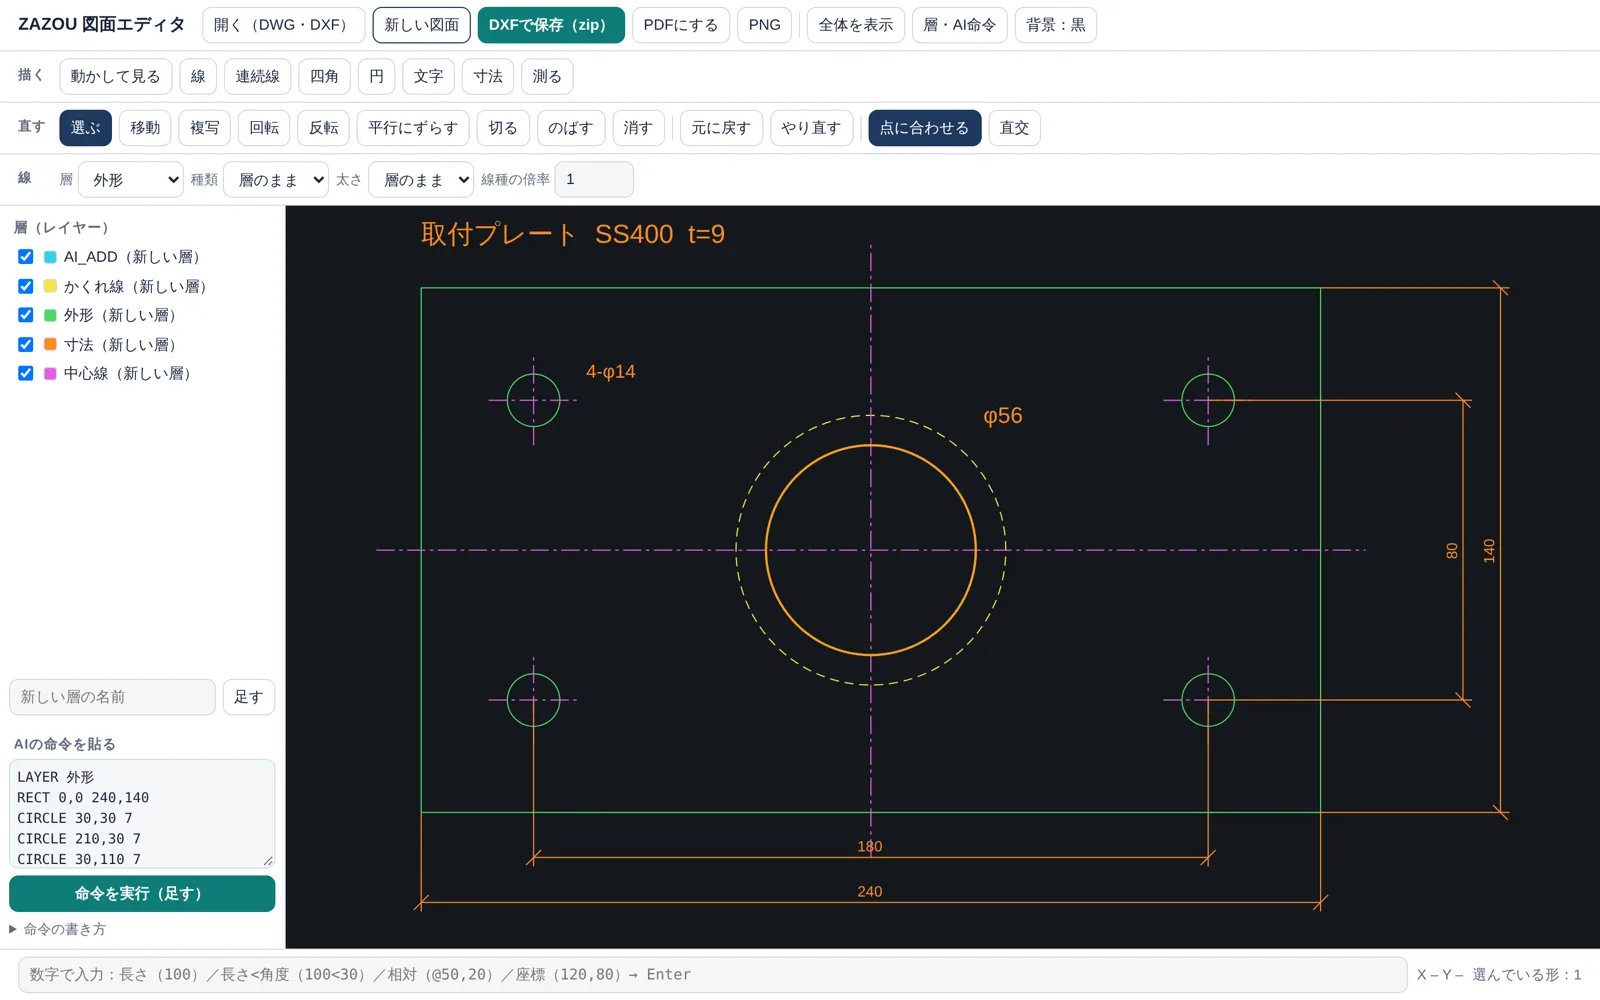
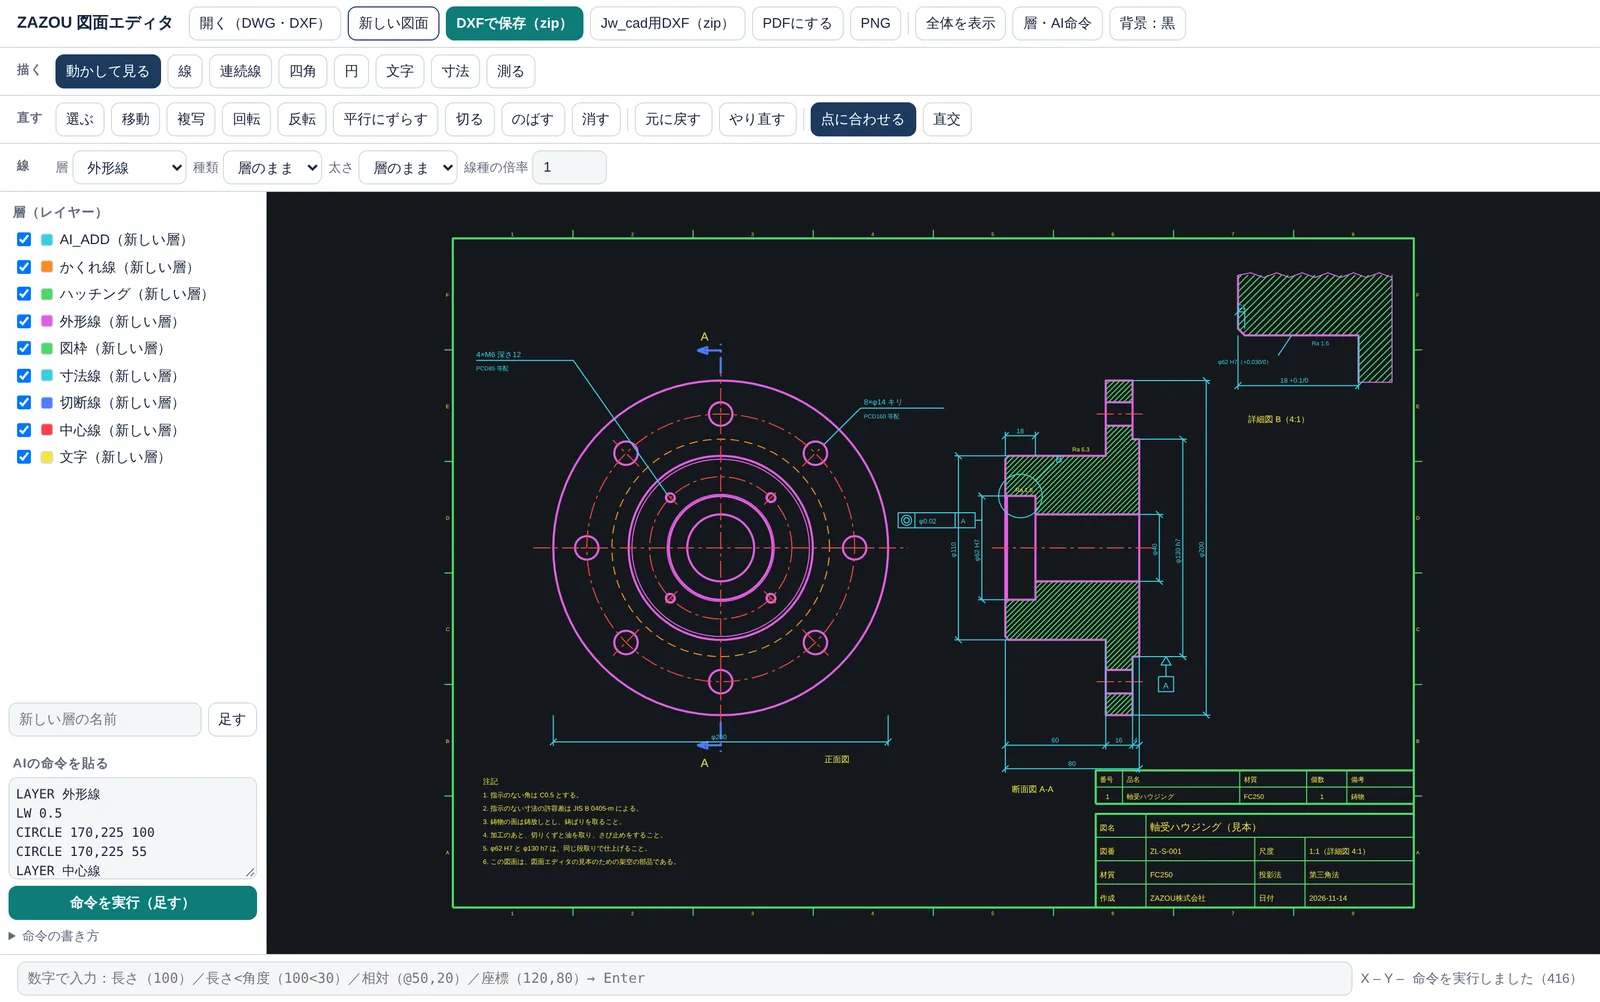
図面エディタ：見本の図面を、込み入った図面（軸受ハウジング。正面図・断面図・詳細図・公差・表題欄）に差しかえ
Claude-Session: https://claude.ai/code/session_01FoXnQUnWFo5bCHCE2XBacV

diff --git a/samples/cad-editor/index.html b/samples/cad-editor/index.html
@@ -50,7 +50,7 @@ dl.qa dd{margin:2px 0 0;color:var(--sub);font-size:15px}
 <p>DWG・DXFの図面をブラウザで開き、線・円・寸法・文字を足し、移動・回転・切る・のばすなどの修正をして、DXFとPDFで出す、自社開発の2次元の作図ソフトです。元の図面は書きかえず、足した所と消した所だけを保存します。AIが書いた作図の命令を、そのまま図面に入れることもできます。</p>
 <p class="cta-note">2026年11月に作り始めた試作です。下に、確かめたことと、まだのことを分けて書いています。</p>
 </header>
-<figure class="dwg"><img src="img/app.webp" width="1600" height="1000" alt="図面エディタの画面。上に描く道具と直す道具、左に層の一覧とAIの命令を貼る欄、まん中に取付プレートの図面（外形・中心線・かくれ線・寸法）" decoding="async"><figcaption>図面エディタの画面。この見本の図面（取付プレート）は、左下の欄に貼った命令から描いたものです。</figcaption></figure>
+<figure class="dwg"><img src="img/app.webp" width="1600" height="1003" alt="図面エディタの画面。上に描く道具と直す道具、左に層の一覧とAIの命令を貼る欄、まん中に軸受ハウジングの図面（正面図、断面図 A-A、詳細図、寸法、幾何公差、表題欄）" decoding="async"><figcaption>図面エディタの画面。見本の図面（軸受ハウジング、A2）は、549行の命令から描いたものです。形は416（線・円・円弧・文字）、層は9つ。見本のための架空の部品です。</figcaption></figure>
 
 <section>
 <h2><span class="en">Why</span>なぜ作ったか</h2>
@@ -73,19 +73,20 @@ dl.qa dd{margin:2px 0 0;color:var(--sub);font-size:15px}
 
 <section>
 <h2><span class="en">AI</span>AIが命令を書き、人が確かめる</h2>
-<p class="lead">「240×140の板に、四隅から30mmの位置にφ14の穴を4つ」のように頼むと、AIが下のような命令を書きます。これを貼ると、層に分かれた図面になります。数字はすべて目で読める形なので、人が見て直せます。</p>
-<pre class="cmd">LAYER 外形
-RECT 0,0 240,140
-CIRCLE 30,30 7
-CIRCLE 210,30 7
+<p class="lead">部品の形と寸法を伝えると、AIが下のような命令を書きます。これを貼ると、層に分かれた図面になります。数字はすべて目で読める形なので、人が見て直せます。上の見本は、外形線・かくれ線・中心線・切断線・ハッチング・寸法線・文字・図枠を、層と線の太さを分けて描いています。</p>
+<pre class="cmd">LAYER 外形線
+LW 0.5
+CIRCLE 170,225 100
+CIRCLE 170,225 55
 LAYER 中心線
 LTYPE CENTER
-LINE -12,70 252,70
-LAYER 寸法
-DIM 0,0 240,0 -24
-TEXT 44,116 5 "4-φ14"</pre>
+CIRCLE 170,225 80
+LINE 58,225 282,225
+LAYER 寸法線
+DIM 340,194 340,256 14 "φ62 H7"
+TEXT 346,258.5 3.5 "Ra 1.6"</pre>
 <p>AIは形を画面に直接描きません。命令という「読める中間の形」を1つはさむことで、まちがいを人が見つけやすくしています。</p>
-<figure class="dwg"><img src="img/pdf.webp" width="1287" height="910" alt="A4横、縮尺1:2で出したPDF。取付プレートの図面に、図面枠と表題欄（図面の名前、作成、縮尺、日付）が入っている" loading="lazy" decoding="async"><figcaption>同じ図面をPDFにしたもの（A4横、縮尺1:2、白黒、図面枠と表題欄つき）。</figcaption></figure>
+<figure class="dwg"><img src="img/pdf.webp" width="2069" height="1486" alt="白黒のPDFにした軸受ハウジングの図面。正面図（ボルト穴8つ、ねじ穴4つ、ピッチ円）、断面図 A-A（ハッチング、直径と長さの寸法、幾何公差、データム）、詳細図 B（4:1）、注記、部品表、表題欄" loading="lazy" decoding="async"><figcaption>同じ図面をPDFにしたもの（白黒、縮尺1:2）。正面図、断面図 A-A、詳細図 B（4:1）、寸法とはめあい、表面性状、幾何公差とデータム、注記、部品表、表題欄。</figcaption></figure>
 </section>
 
 <section>
@@ -126,6 +127,7 @@ TEXT 44,116 5 "4-φ14"</pre>
 <ul>
 <li>DWGの見本3つ（2000年式・2010年式・2018年式、形67）を開いて表示できた</li>
 <li>描く・直すの各機能を1つずつ動かし、座標が計算どおりだった</li>
+<li>見本の図面（軸受ハウジング、形416）を命令から描き、DXFで保存して、別の読み取りソフトで点検。エラー0、形の数も合っていた</li>
 <li>2018年式の図面で、元の線・円弧・連続線・ブロックを動かし、寸法を1つ消し、破線と日本語の文字を足して保存。別の読み取りソフト（ezdxf）で点検してエラー0、形の数も合っていた</li>
 <li>日本語の層の名前と文字が、保存のあとも正しく読めた</li>
 </ul></div>

diff --git a/index.html b/index.html
@@ -117,7 +117,7 @@
   <p class="group" id="g-estimate">見積・図面</p>
   <ul class="rows">
     <li><a class="row has-thumb" href="samples/drawing-estimate/"><img class="th land" src="assets/img/thumb-drawing.webp" width="640" height="400" alt="図面見積アプリの紹介ページ" loading="lazy" decoding="async"><span class="t">図面見積アプリ：図面PDFから見積書の下書きまで</span><span class="m">Web</span><span class="d">金属加工の図面をAIが読み、見積の下書きをExcelで。自作の見本図面10枚で項目の正解率は約99%（90項目中89）。読み違えやすい所は「要確認」に出す。オンラインのAI・オフラインのAI（準備中）・AIなし（弊社の担当が読む）から選べる。</span></a></li>
-    <li><a class="row has-thumb" href="samples/cad-editor/"><img class="th land" src="assets/img/thumb-cad.webp" width="640" height="400" alt="図面エディタの画面" loading="lazy" decoding="async"><span class="t">図面エディタ：DWG・DXFを開いて、描いて、直す（自社開発）</span><span class="m">Web · 試作</span><span class="d">DWG・DXFの図面を開き、線・円・寸法・文字の追加、移動・回転・切る・のばすなどの修正をして、DXFとPDFで出す自社開発の2次元の作図ソフト。元の図面は書きかえず、足した所と消した所だけを保存。AIが書いた作図の命令も入れられる。確かめたことと、まだのことを分けて掲載。</span></a></li>
+    <li><a class="row has-thumb" href="samples/cad-editor/"><img class="th land" src="assets/img/thumb-cad.webp?v=2" width="640" height="400" alt="図面エディタの画面" loading="lazy" decoding="async"><span class="t">図面エディタ：DWG・DXFを開いて、描いて、直す（自社開発）</span><span class="m">Web · 試作</span><span class="d">DWG・DXFの図面を開き、線・円・寸法・文字の追加、移動・回転・切る・のばすなどの修正をして、DXFとPDFで出す自社開発の2次元の作図ソフト。元の図面は書きかえず、足した所と消した所だけを保存。AIが書いた作図の命令も入れられる。確かめたことと、まだのことを分けて掲載。</span></a></li>
     <li><a class="row" href="samples/estimate-flow/"><span class="t">見積書作成：図面から見積書までの流れ（アルミ溶接フレーム）</span><span class="m">PDF · 7p</span><span class="d">寸法・材質・溶接箇所の拾い出し、材料取り、加工工数、積算、見積書、読み違いを防ぐ確認リストまで。</span></a></li>
     <li><a class="row" href="samples/electrical-takeoff/"><span class="t">電気設備図面の積算：私の進め方</span><span class="m">PDF · 5p</span><span class="d">PDF図面から回路分け・記号の拾い出し・ケーブル量の算出まで。2通りの数え方による二重チェックと、確認事項の書き出し。</span></a></li>
   </ul>
